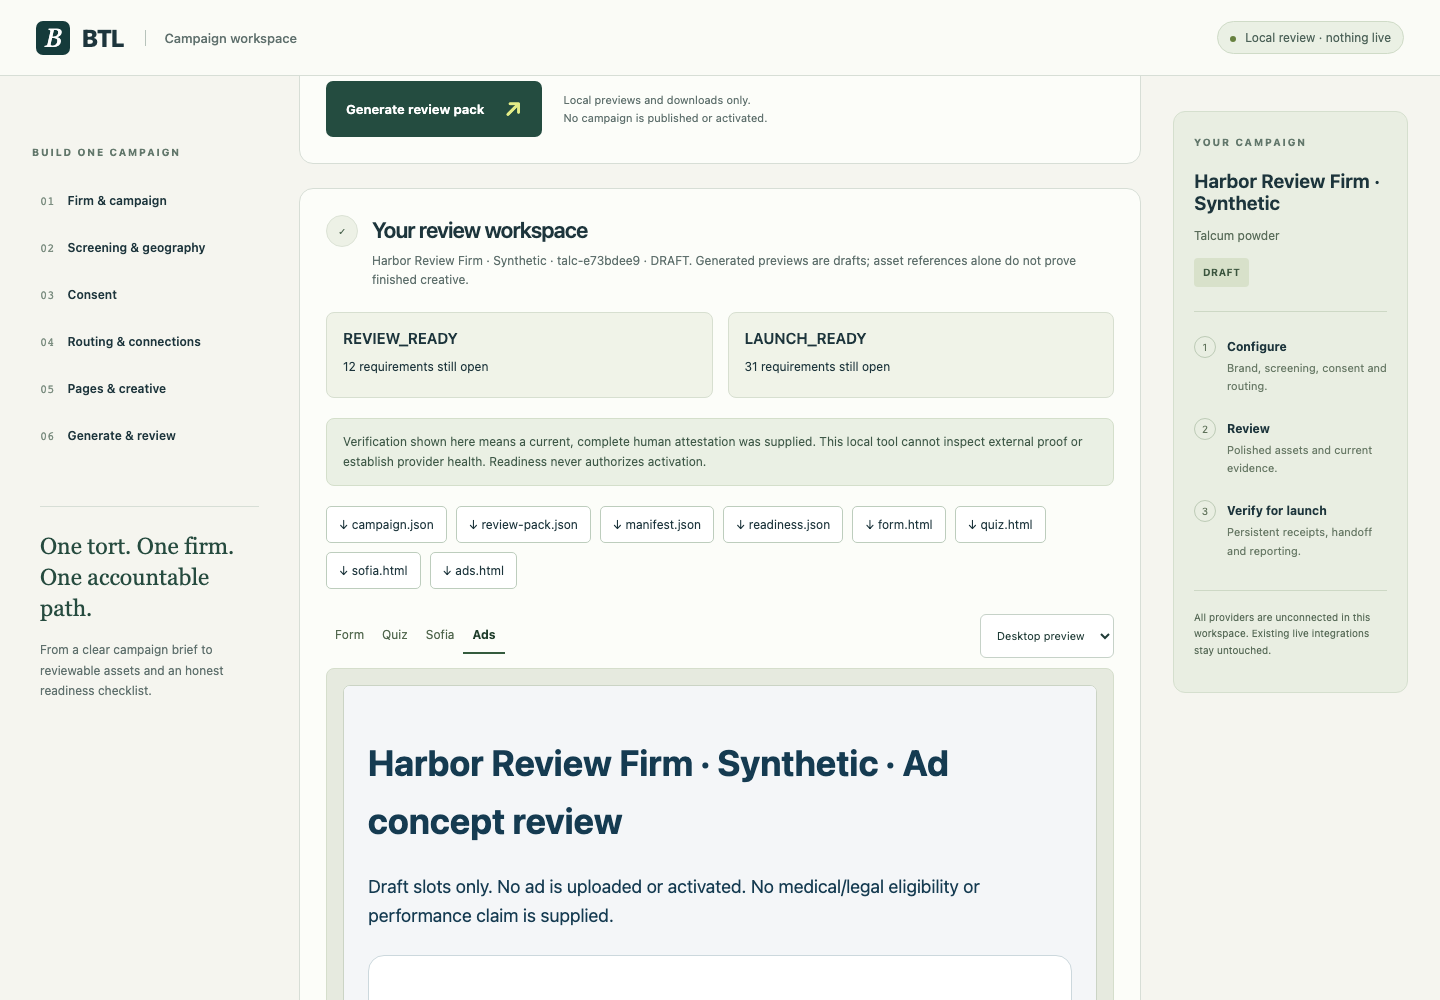
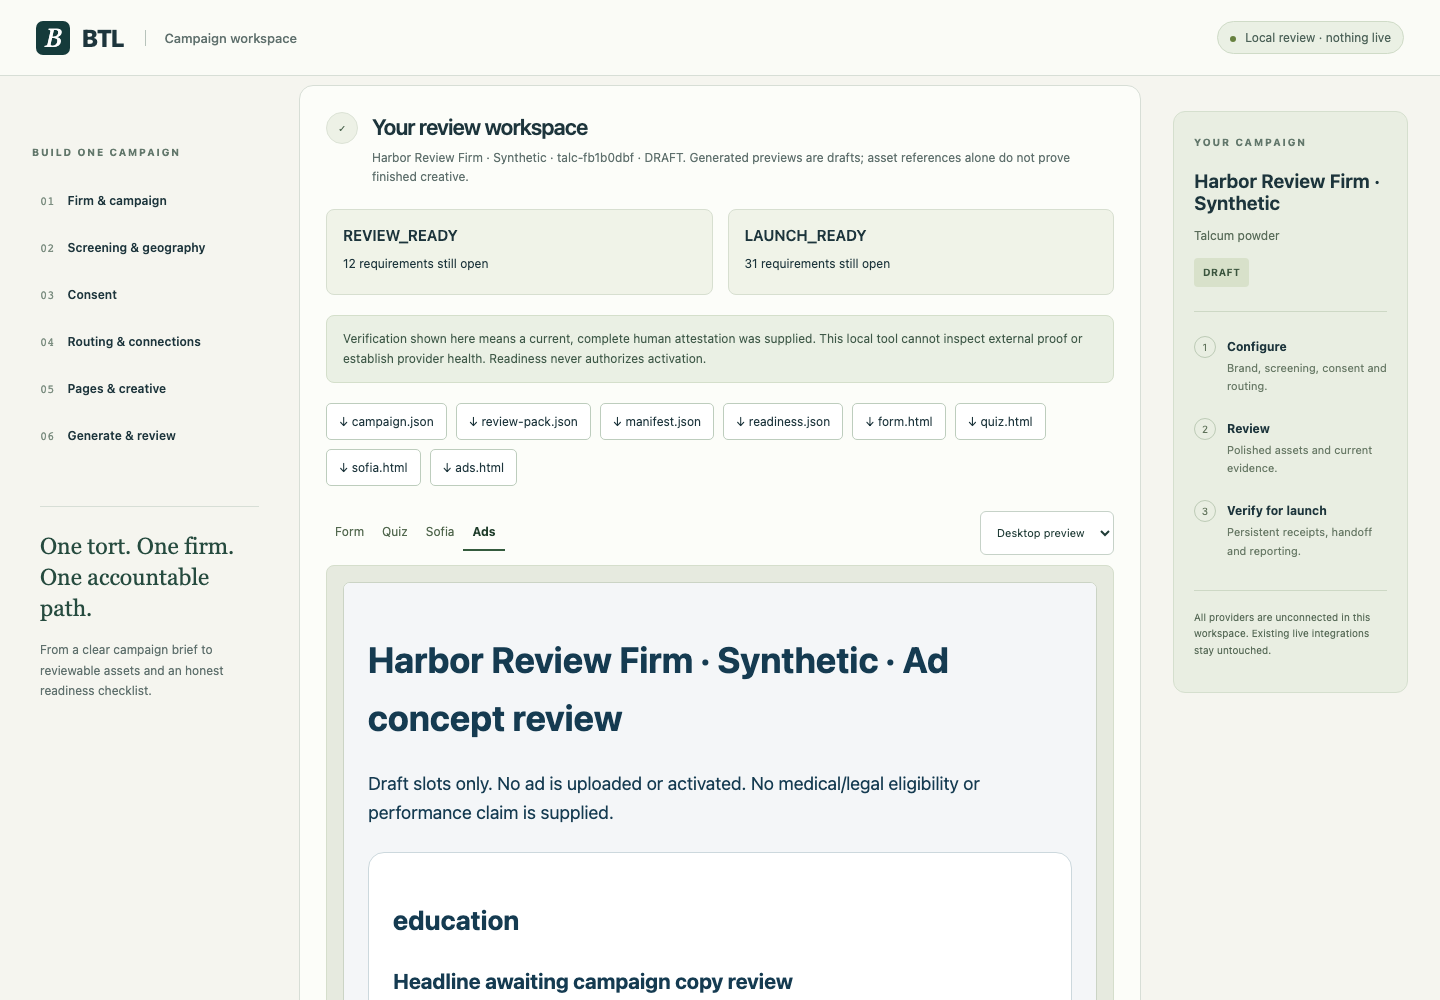
Keep profile switches atomic and bind imported assets by stable identity

diff --git a/campaign-system/setup/setup.css b/campaign-system/setup/setup.css
@@ -635,6 +635,9 @@ iframe.mobile {
   font-size: 12px;
   line-height: 1.7;
 }
+#results-heading {
+  scroll-margin-top: 24px;
+}
 .results summary {
   cursor: pointer;
   font-size: 14px;

diff --git a/campaign-system/MASS-TORT.md b/campaign-system/MASS-TORT.md
@@ -10,7 +10,7 @@ node campaign-system/setup-server.mjs
 
 Open the printed `http://127.0.0.1:<port>` address. An optional port argument selects a specific local port. The dependency-free server binds only to loopback, serves an allowlisted UI/catalog and reuses `createMassTortKit()` and `dryRun()` for all configuration and artifact validation. Same-origin JSON is required; cross-origin/Host-spoofed requests, oversized input and other routes are refused. There are no provider connection, activation, filesystem-output, case-acceptance or retainer endpoints.
 
-The mobile/desktop interface accepts firm name, ID, color and approved local logo reference; a named mass tort; firm-supplied criteria/geography; exact versioned consent; existing routing and provider IDs/revisions; three ad concepts and asset references; reporting references and a separate media budget. Unsupported single-tort categories require a separately validated template. Changing tort or a configured firm identity starts a new isolated campaign and clears old rules, consent, geography, routing, creative, budgets and evidence. Other material edits preserve the old evidence hashes so they correctly become stale; the UI never stamps or approves them.
+The mobile/desktop interface accepts firm name, ID, color and approved local logo reference; a named mass tort; firm-supplied criteria/geography; exact versioned consent; existing routing and provider IDs/revisions; three ad concepts and asset references; reporting references and a separate media budget. Unsupported single-tort categories require a separately validated template. Changing tort or a configured firm identity starts a new isolated campaign and clears old rules, consent, geography, routing, creative, budgets and evidence. Failed profile switches restore the previous visible identity and campaign together; successful recovery still creates a fresh isolated campaign. Imported page controls bind by stable page path and concept controls by ID, preserving references through reordered arrays. Other material edits preserve the old evidence hashes so they correctly become stale; the UI never stamps or approves them.
 
 Generate a review pack to view form/quiz/Sofia/ad previews in an opaque-origin sandbox and download `campaign.json`, the existing manifest/readiness JSON and four HTML artifacts. `review-pack.json` bundles these plus **planning-only** Facebook-starter/build-fee notes; it is not an activation contract. The build fee has no default or committed meaning; fee and media remain separate while commercial terms are clarified. Expansion is a later phase with separate channel/budget approvals. Imported campaign JSON is revalidated by the existing validator. Supplied current human attestations are identified as such, never as independently tested connections. Every provider remains unconnected in this workspace.
 
@@ -23,7 +23,7 @@ Browser QA follows the repository’s Playwright stack:
 SHOTS=/tmp/btl-setup-shots node tests/mass-tort-setup.browser.cjs
 ```
 
-Set `CHROMIUM` to a complete installed browser executable when needed. The browser check uses synthetic data at 390px and 1440px; it tests setup, JSON export/import, all four previews, firm/tort isolation, stale evidence, malicious text, invalid logo handling, focus, overflow, empty browser storage and zero external requests. `campaign-system/test/setup-server.test.mjs` is included in normal release checks. CI runs browser QA and uploads its screenshots/log.
+Set `CHROMIUM` to a complete installed browser executable when needed. The browser check uses synthetic data at 390px and 1440px; it tests setup, JSON export/import, all four previews, firm/tort isolation, failed-switch rollback and recovery, reordered import/export, sticky-heading visibility, stale evidence, malicious text, invalid logo handling, focus, overflow, empty browser storage and zero external requests. `campaign-system/test/setup-server.test.mjs` is included in normal release checks. CI runs browser QA and uploads its screenshots/log.
 
 From the repository root, copy `campaign-system/examples/mass-tort.draft.json` to a private working file. It contains **template placeholders**, no prospective client or claimant data, no legal/medical criteria and no inherited budget. Choose a unique campaign ID and update all three page IDs and `identity.source` to match. Use an existing named mass-tort catalog topic; `createMassTortKit({topic,start,campaignId})` creates a fresh blank profile. Changing torts requires a fresh profile and human firm review; never copy criteria, consent approvals or evidence from another campaign.
 

diff --git a/docs/btl-mass-tort-setup/README.md b/docs/btl-mass-tort-setup/README.md
@@ -10,7 +10,7 @@ Screenshots use only a synthetic firm and synthetic input; nothing was published
 - [Mobile generated review workspace](evidence/review-390.png)
 - [Browser QA receipt](evidence/browser-run.txt)
 
-Real Chromium QA passed at 390px and 1440px: setup, generation, eight downloadable files including the review pack, all four previews, budget/firm/tort isolation, current versus stale attestations, late-response invalidation, malicious imported text, invalid remote-logo refusal, error focus, no horizontal overflow, empty browser storage and no external requests. The browser test is `tests/mass-tort-setup.browser.cjs`; the local API test is `campaign-system/test/setup-server.test.mjs`. Existing CI runs both the normal release checks and the browser suite, preserving screenshots/logs as artifacts.
+Real Chromium QA passed at 390px and 1440px: setup, generation, eight downloadable files including the review pack, all four previews, budget/firm/tort isolation, failed-switch rollback and recovery, reordered page/concept import/export, review-heading visibility below sticky navigation, current versus stale attestations, late-response invalidation, malicious imported text, invalid remote-logo refusal, error focus, no horizontal overflow, empty browser storage and no external requests. The browser test is `tests/mass-tort-setup.browser.cjs`; the local API test is `campaign-system/test/setup-server.test.mjs`. Existing CI runs both the normal release checks and the browser suite, preserving screenshots/logs as artifacts.
 
 The UI is usable for local setup and review. The generated consumer pages remain the existing non-submitting demos; Sofia is scripted. Logo/image/video references are not assembled media, and creative slots are not finished creative. Providers remain unconnected in this workspace, even when a configuration contains current human attestation references.
 
